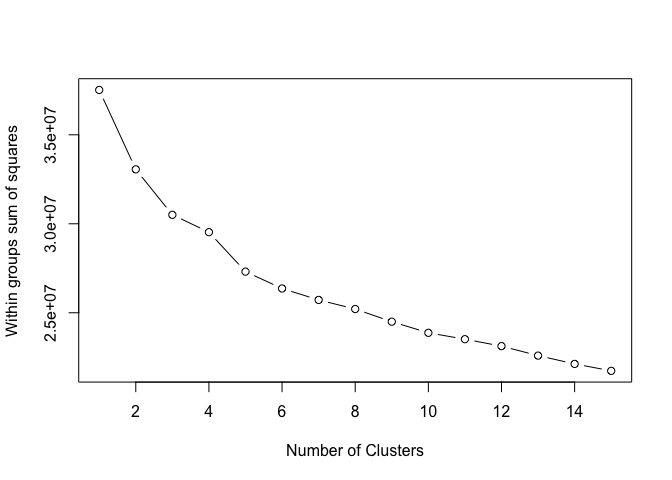
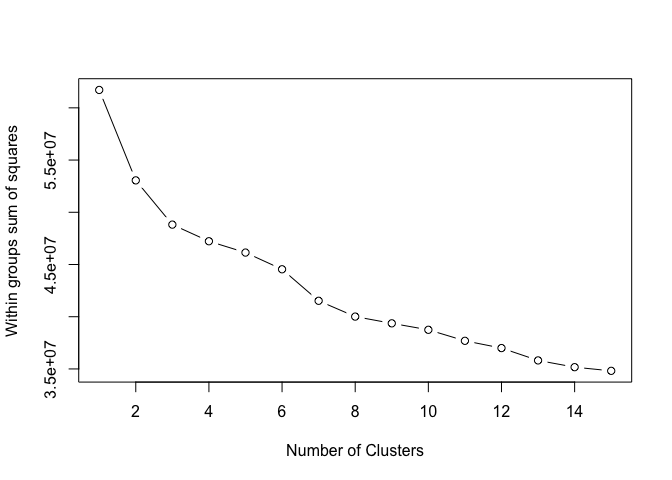
kmeans

diff --git a/analysis_reports/02kmeans/kmeans.md b/analysis_reports/02kmeans/kmeans.md
@@ -9,10 +9,8 @@ To evaluate our dataset for sample swaps, I will be performing K-means cluster a
 ### Step 1: Attach packages for analysis
 
 ```r
-library(RColorBrewer)
-library(ggplot2)
-library(NbClust)
 library(cluster)
+library(fpc)
 ```
 
 
@@ -164,6 +162,15 @@ str(beta_norm_na, max.level=0)
 
 I cross-check the number of probes after removing NA values with Santina's analysis. It is the same. Now I'm good to go!
 
+> Save the results with removed `NA` for future use. 
+
+
+```r
+save(raw_data_na, file="raw.beta.na.Rdata")
+save(raw_data_filter_na, file="raw.filter.beta.na.Rdata")
+save(beta_norm_na, file="norm.filter.beta.na.Rdata")
+```
+
 
 ### Step 3: Perform sample clustering using K-means method
 > 3.1 Scale the data (specifically, the rows)
@@ -225,8 +232,8 @@ km_dat$withinss
 
 ```r
 # composition of each cluster
-km_table <- data.frame(group=metadata$group, cluster=km_dat$cluster)
-addmargins(with(km_table, table(group, cluster)))
+raw <- data.frame(group=metadata$group, cluster=km_dat$cluster)
+addmargins(with(raw, table(group, cluster)))
 ```
 
 ```
@@ -237,6 +244,11 @@ addmargins(with(km_table, table(group, cluster)))
 ##   normal-C   0   0   3  21  24
 ##   normal-H   0   0   6  11  17
 ##   Sum       35  41  23  48 147
+```
+
+```r
+# save the data.frame for future use
+save(raw, file="km_raw.Rdata")
 ```
 
 Based on this cluster analysis, it can be observed that majority of samples from the same group are clustered together, except for normal tissues from patients with colorectal cancer (normal-C) and healthy patients (normal-H). While 28/42 adenoma samples are in cluster 1 and 33/64 colorectal cancer samples are in cluster 2, 21/24 normal-C and 11/17 normal-H are in cluster 4. 
@@ -271,19 +283,22 @@ km <- function(data, sdat){
   km_dat$withinss
   
   # composition of each cluster
-  km_table <- data.frame(group=metadata$group, cluster=km_dat$cluster)
-  addmargins(with(km_table, table(group, cluster)))
+  data.frame(group=metadata$group, cluster=km_dat$cluster)
 }
 ```
 
 Perform the analysis for `raw_data_filter_na`:
 
 ```r
-km(raw_data_filter_na, sdat_raw_filter)
+raw_filter <- km(raw_data_filter_na, sdat_raw_filter)
 ```
 
 ```
 ##  num [1:256981, 1:147] 1.239 1.052 -1.301 -1.214 -0.877 ...
+```
+
+```r
+addmargins(with(raw_filter, table(group, cluster)))
 ```
 
 ```
@@ -296,14 +311,23 @@ km(raw_data_filter_na, sdat_raw_filter)
 ##   Sum       42  33  51  21 147
 ```
 
+```r
+# save the data.frame for future use
+save(raw_filter, file="km_raw_filter.Rdata")
+```
+
 Perform the analysis for `beta_norm_na`:
 
 ```r
-km(beta_norm_na, sdat_norm)
+norm_filter <- km(beta_norm_na, sdat_norm)
 ```
 
 ```
 ##  num [1:256981, 1:147] 1.322 1.129 -1.226 -1.154 -0.575 ...
+```
+
+```r
+addmargins(with(norm_filter, table(group, cluster)))
 ```
 
 ```
@@ -314,6 +338,11 @@ km(beta_norm_na, sdat_norm)
 ##   normal-C  19   0   5   0  24
 ##   normal-H  17   0   0   0  17
 ##   Sum       64  55  14  14 147
+```
+
+```r
+# save the data.frame for future use
+save(norm_filter, file="km_norm_filter.Rdata")
 ```
 
 While the output of `raw_data_filter_na` (filtered pre-normalization) are similar with with cluster analysis of `raw_data_na` (unfiltered pre-normalization), this is not the same for `beta_norm_na` (filtered post-normalization). For `beta_norm_na`, 31/42 adenoma samples are in cluster 2 and 24/64 colorectal cancer samples are in cluster 2, 19/24 normal-C and 17/17 normal-H are in cluster 1. It can be observed that majority of adenoma and cancer samples are in the same cluster whereas majority normal-C and all of normal-H are in the same cluster. 
@@ -350,7 +379,7 @@ Plot for `raw_data_na`:
 wssplot(sdat)
 ```
 
-![](kmeans_files/figure-html/unnamed-chunk-16-1.png) 
+![](kmeans_files/figure-html/unnamed-chunk-17-1.png) 
 
 Plot for `raw_data_filter_na`:
 
@@ -359,7 +388,7 @@ Plot for `raw_data_filter_na`:
 wssplot(sdat_raw_filter)
 ```
 
-![](kmeans_files/figure-html/unnamed-chunk-17-1.png) 
+![](kmeans_files/figure-html/unnamed-chunk-18-1.png) 
 
 Plot for `beta_norm_na`:
 
@@ -368,36 +397,6 @@ Plot for `beta_norm_na`:
 wssplot(sdat_norm)
 ```
 
-![](kmeans_files/figure-html/unnamed-chunk-18-1.png) 
+![](kmeans_files/figure-html/unnamed-chunk-19-1.png) 
 
 Based on the plots, a distinct drop can be observed from k=1 to 3 for pre-normalized datasets whereas only a distinct drop between k=1 and 2 was observed for the normalized dataset. 
-
-> 4.2 NbClust
-
-`NbClust` package offers 30 indices for determining k. More information [here](http://www.rdocumentation.org/packages/NbClust/functions/NbClust).
-
-
-```r
-# raw_data_na (unfiltered pre-normalization)
-# nc_raw <- NbClust(sdat, min.nc=2, max.nc=15, method="kmeans")
-# table(nc_raw$Best.n[1,])
-
-# raw_data_filter_na (filtered pre-normalization)
-# nc_raw_filter <- NbClust(sdat_raw_filter, min.nc=2, max.nc=15, method="kmeans")
-# table(nc_raw_filter$Best.n[1,])
-
-# beta_norm_na (filtered post-normalization)
-# nc_norm <- NbClust(sdat_norm, min.nc=2, max.nc=15, method="kmeans")
-# table(nc_norm$Best.n[1,])
-```
-
-> 4.3 AIC
-
-
-
-> 4.4 BIC
-
-
-
-### Summary
-
